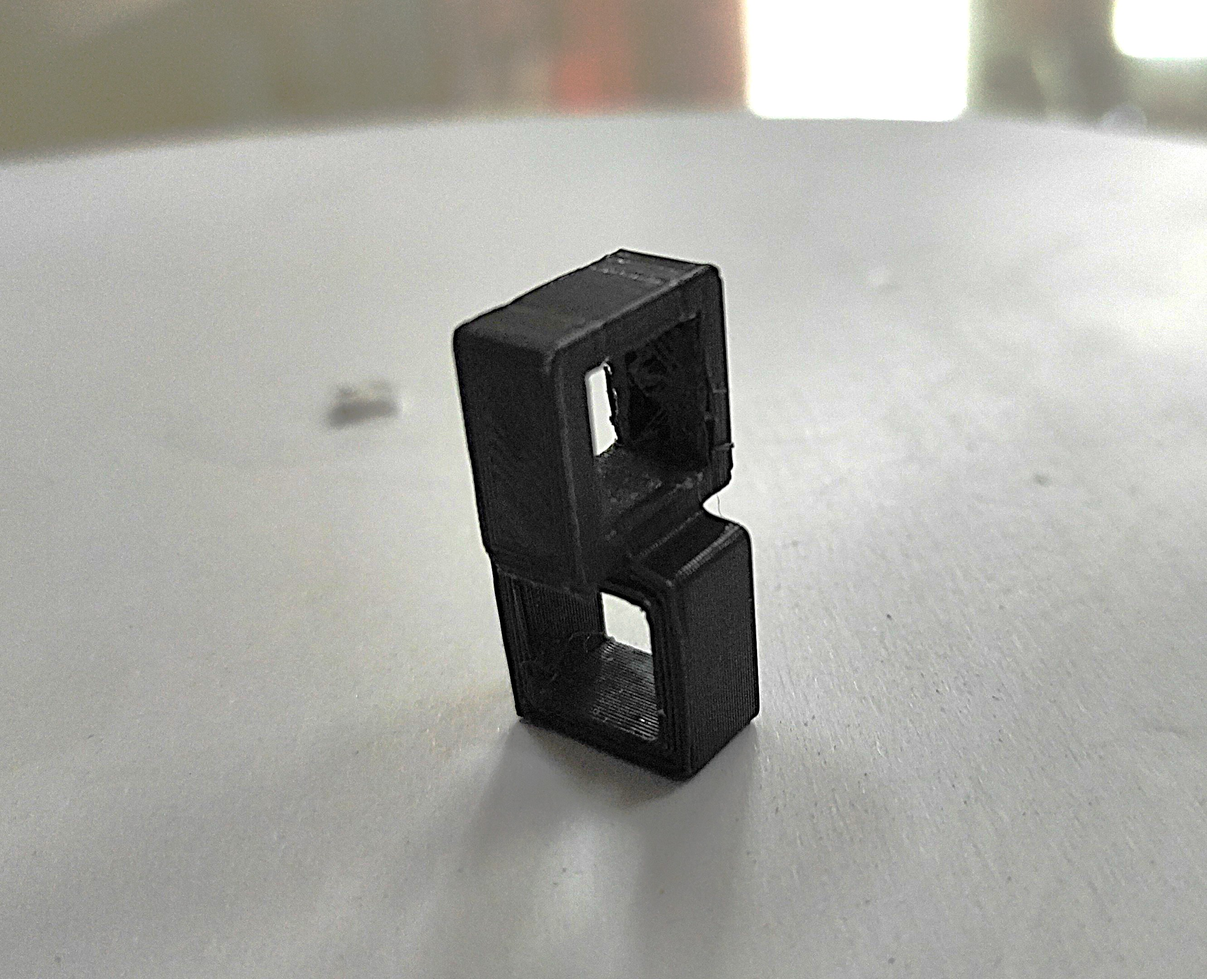
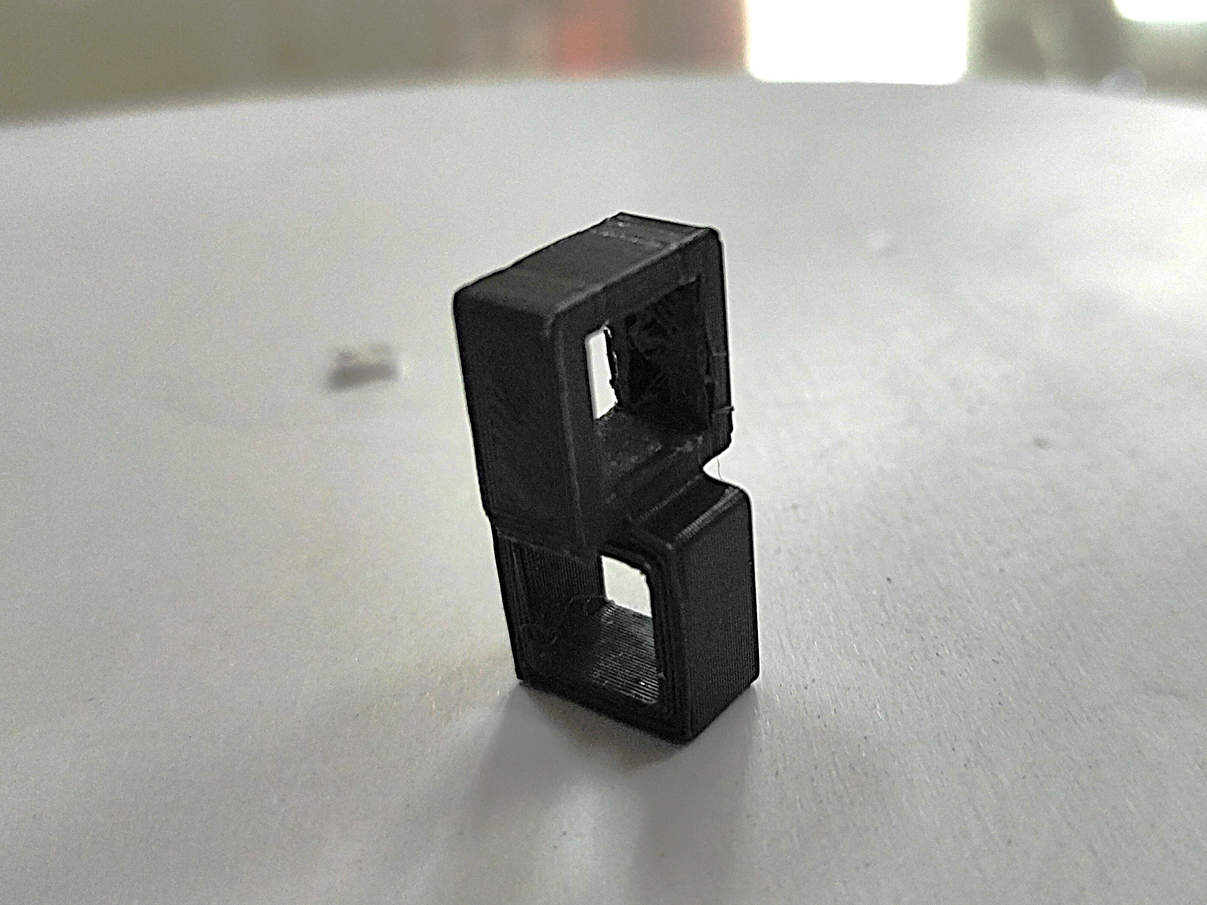
update

diff --git a/projects/Major_22.html b/projects/Major_22.html
@@ -234,7 +234,7 @@
                                     <p style="font-size: 14px; color: #666; text-align: center;">Figure: Adapter</p>
                                 </div>
                                 <div class="col-md-6">
-                                    <img src="../images/Major_22/CAD/Adapter.jpg" alt="3D Printing Bed Setup" class="img-responsive" style="margin-bottom: 20px;">
+                                    <img src="../images/Major_22/CAD/Adapter_quad.png" alt="3D Printing Bed Setup" class="img-responsive" style="margin-bottom: 20px;">
                                     <p style="font-size: 14px; color: #666; text-align: center;">Figure: Adapter</p>
                                 </div>
                                 <div class="col-md-6">
